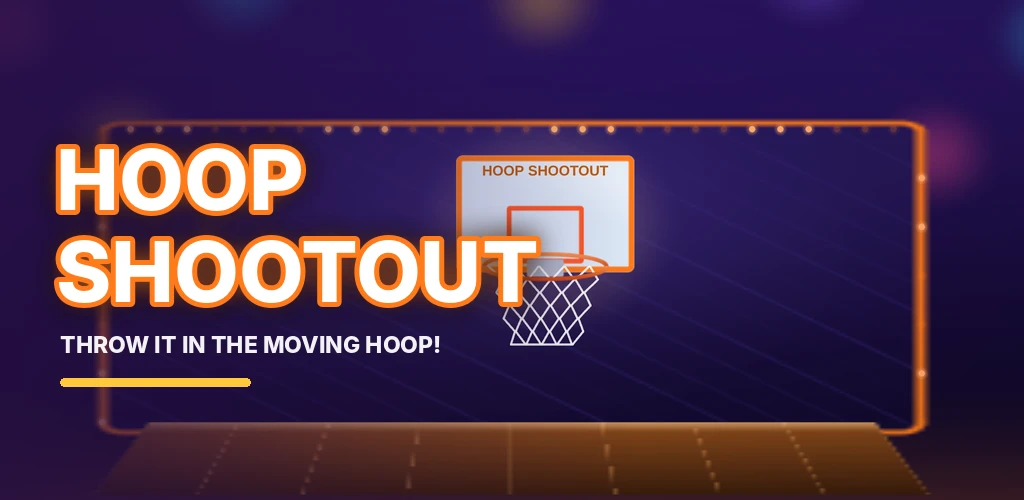
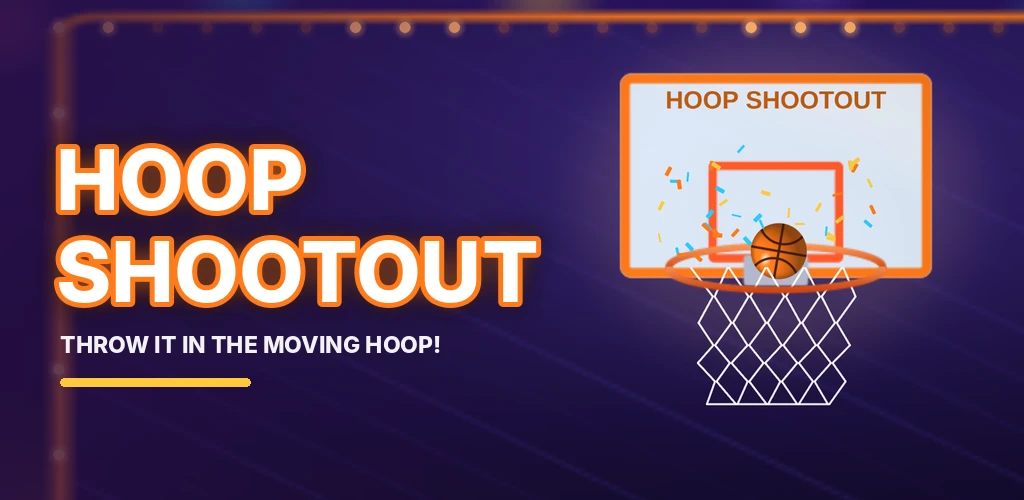
Add LiDAR wall games Hoop Shootout, Cricket Bowling, Darts Wall (63 games)
Claude-Session: https://claude.ai/code/session_01FWGSz1fwDeFFDifWNWLToY

diff --git a/src/games.ts b/src/games.ts
@@ -22,6 +22,36 @@ export interface GameEntry {
 /** Newest first. Each game lives in src/games/<id>/ and is reachable at #/<id>. */
 export const GAMES: GameEntry[] = [
   {
+    id: "wallhoops",
+    name: "Hoop Shootout",
+    tagline: "Throw it in the moving hoop!",
+    genre: "LiDAR Wall",
+    icon: "img/icons/wallhoops.webp",
+    feature: "img/features/wallhoops.webp",
+    description: "LiDAR wall activation: the fair arcade basketball machine on a wall. Throw soft balls through a hoop that slides and bobs, hit the golden brand hoop for 3, go on fire with three in a row. Solo, vs a virtual shooter, or two players on a split wall.",
+    component: load(() => import("./games/wallhoops")),
+  },
+  {
+    id: "wallcricket",
+    name: "Cricket Bowling",
+    tagline: "Hit the stumps. Howzat!",
+    genre: "LiDAR Wall",
+    icon: "img/icons/wallcricket.webp",
+    feature: "img/features/wallcricket.webp",
+    description: "LiDAR wall activation: gully cricket against a painted street wall. Bowl at the stumps for wickets while the batter defends, hit the FOUR box or the brand SIX board for runs, chase a hat-trick. Solo, vs a virtual bowler, or two players.",
+    component: load(() => import("./games/wallcricket")),
+  },
+  {
+    id: "walldarts",
+    name: "Darts Wall",
+    tagline: "Ten throws. Hit the treble 20!",
+    genre: "LiDAR Wall",
+    icon: "img/icons/walldarts.webp",
+    feature: "img/features/walldarts.webp",
+    description: "LiDAR wall activation: a giant pub dartboard on each half of the wall. Ten soft-ball throws each, trebles, doubles and the bull, with visit callouts up to ONE HUNDRED AND EIGHTY. Chase today's top score, beat a virtual thrower, or face a friend.",
+    component: load(() => import("./games/walldarts")),
+  },
+  {
     id: "wallkeeper",
     name: "Goalkeeper Save",
     tagline: "Hit the shot with your ball. Make the save!",

diff --git a/src/games/wallcricket/WallKit.ts b/src/games/wallcricket/WallKit.ts
@@ -590,7 +590,7 @@ export abstract class WallGame extends ArcadeGame {
     const { result, score, label, stars } = this.MakeResult();
     this.starCount = stars; this.starT = 0; this.starPlayed = 0;
     result.Stars = -1;
-    this.resRank = WallBoard.add(this.Info.Id, score, label);
+    this.resRank = score > 0 ? WallBoard.add(this.Info.Id, score, label) : 0;
     if (this.resRank > 0) {
       result.BestLine = `${result.BestLine}   ·   #${this.resRank} TODAY`;
     }

diff --git a/src/games/walldarts/WallKit.ts b/src/games/walldarts/WallKit.ts
@@ -590,7 +590,7 @@ export abstract class WallGame extends ArcadeGame {
     const { result, score, label, stars } = this.MakeResult();
     this.starCount = stars; this.starT = 0; this.starPlayed = 0;
     result.Stars = -1;
-    this.resRank = WallBoard.add(this.Info.Id, score, label);
+    this.resRank = score > 0 ? WallBoard.add(this.Info.Id, score, label) : 0;
     if (this.resRank > 0) {
       result.BestLine = `${result.BestLine}   ·   #${this.resRank} TODAY`;
     }

diff --git a/src/games/wallhoops/WallKit.ts b/src/games/wallhoops/WallKit.ts
@@ -590,7 +590,7 @@ export abstract class WallGame extends ArcadeGame {
     const { result, score, label, stars } = this.MakeResult();
     this.starCount = stars; this.starT = 0; this.starPlayed = 0;
     result.Stars = -1;
-    this.resRank = WallBoard.add(this.Info.Id, score, label);
+    this.resRank = score > 0 ? WallBoard.add(this.Info.Id, score, label) : 0;
     if (this.resRank > 0) {
       result.BestLine = `${result.BestLine}   ·   #${this.resRank} TODAY`;
     }
